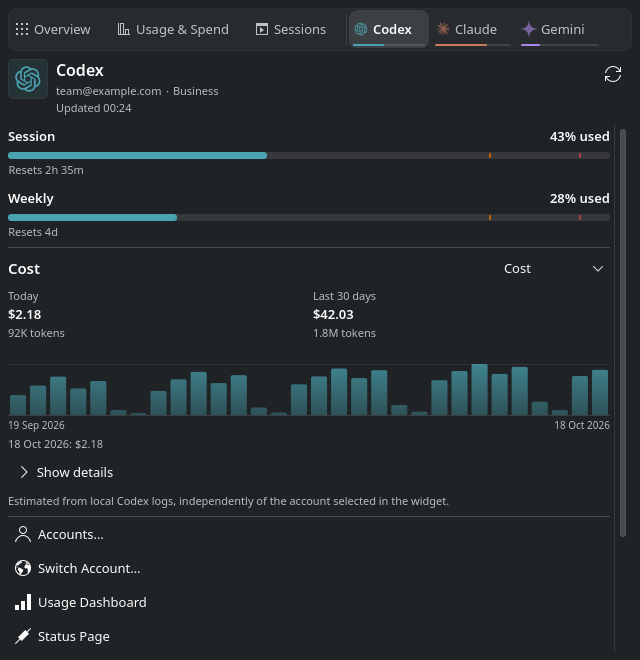
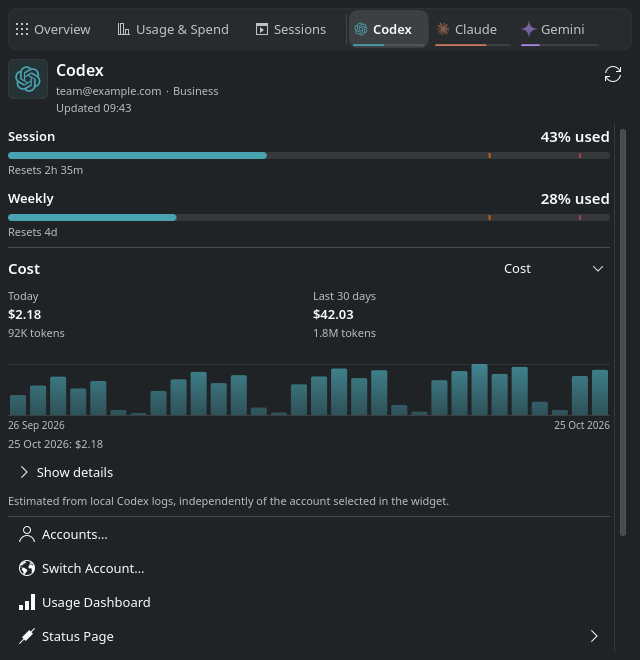
fix(popup): clarify provider quota hierarchy and metadata
Emphasize quota values and move reset metadata below long forecasts when space is limited. Preserve native theme colors, tooltips, row actions, and CLI inputs.

Documentation: update usage and development guides, Unreleased notes, the provider screenshot and the final README tour frame. TODO remains unchanged because this visual refinement does not complete an open parity entry.

diff --git a/tests/tst_visual_layout.qml b/tests/tst_visual_layout.qml
@@ -1939,6 +1939,65 @@ TestCase {
         verify(pace !== null);
     }
 
+    function test_providerUsageMetadataAdaptsToAvailableWidth_data() {
+        return [
+            {tag: "ltr", mirrored: false, fontScale: 1},
+            {tag: "rtl", mirrored: true, fontScale: 1},
+            {tag: "large-text", mirrored: false, fontScale: 2}
+        ];
+    }
+
+    function test_providerUsageMetadataAdaptsToAvailableWidth(data) {
+        failOnWarning(/Qt Quick Layouts: Detected recursive rearrange|Binding loop detected/);
+        var holder = createTemporaryQmlObject(
+            'import QtQuick; Item { LayoutMirroring.childrenInherit: true }', testCase);
+        holder.LayoutMirroring.enabled = data.mirrored;
+        var model = usageRowData();
+        model.pace = "37% in deficit | Expected 43% used | Runs out in 18 hours";
+        var row = createControl("ProviderUsageRow", {
+            applet: applet, providerData: {provider: "codex"}, modelData: model, width: 240
+        }, holder);
+        if (!row)
+            return;
+        var pace = findItem(row, item => item.objectName === "usagePaceLabel");
+        var reset = findItem(row, item => item.text === model.reset);
+        var originalFontSize = pace.font.pointSize;
+        pace.font.pointSize = originalFontSize * data.fontScale;
+        reset.font.pointSize = originalFontSize * data.fontScale;
+        for (var width of [900 * data.fontScale, 540, 240, 900 * data.fontScale]) {
+            row.width = width;
+            verify(waitForPolish(row));
+            if (width === 240 || (width === 540 && data.fontScale === 2)) {
+                verify(reset.mapToItem(row, 0, 0).y >= pace.mapToItem(row, 0, pace.height).y,
+                    "Long forecasts and reset times must use separate rows when space is limited");
+            } else {
+                fuzzyCompare(pace.mapToItem(row, 0, 0).y, reset.mapToItem(row, 0, 0).y, 1);
+            }
+            for (var label of [pace, reset]) {
+                verify(label.width > 0);
+                verify(label.mapToItem(row, 0, 0).x >= -1);
+                verify(label.mapToItem(row, label.width, 0).x <= row.width + 1,
+                    "Quota metadata must stay within the meter width");
+            }
+        }
+        // An unbroken CLI fallback still wraps inside the popup.
+        model.pace = "VeryLongForecast".repeat(12);
+        row.modelData = model;
+        row.width = 240;
+        verify(waitForPolish(row));
+        compare(pace.text, model.pace);
+        verify(pace.contentWidth <= pace.width + 1);
+        verify(reset.mapToItem(row, 0, 0).y >= pace.mapToItem(row, 0, pace.height).y);
+
+        model.pace = "";
+        model.reset = "Resets after the next billing cycle ".repeat(4);
+        row.modelData = model;
+        verify(waitForPolish(row));
+        compare(pace.visible, false);
+        verify(reset.truncated);
+        verify(reset.width <= row.width);
+    }
+
     // The hide action stays out of sight until the row is hovered or the
     // button takes focus, and asks the applet to hide this provider's row.
     function test_providerUsageRowOffersHideAction() {

diff --git a/contents/ui/components/ProviderUsageRow.qml b/contents/ui/components/ProviderUsageRow.qml
@@ -91,6 +91,7 @@ ColumnLayout {
 
             visible: usageRow.rowData.hasPercent
             text: usageRow.applet.usagePercentText(usageRow.rowData)
+            font.pointSize: Kirigami.Theme.defaultFont.pointSize * 1.15
             font.weight: Font.DemiBold
             horizontalAlignment: Text.AlignRight
             elide: Text.ElideRight
@@ -164,12 +165,29 @@ ColumnLayout {
         }
     }
 
-    RowLayout {
+    TextMetrics {
+        id: usageMetadataMetrics
+
+        font: usagePaceLabel.font
+        text: usagePaceLabel.text + usageResetLabel.text
+    }
+
+    GridLayout {
+        id: usageMetadataLayout
+
+        // Measure the unwrapped text, so changing columns never feeds the
+        // resulting label geometry back into the layout decision.
+        readonly property bool stacked: usagePaceLabel.visible && usageResetLabel.visible
+            && usageMetadataMetrics.advanceWidth + columnSpacing > width
+
         visible: usageRow.summaryText.length > 0
             || (usageRow.showPace && usageRow.rowData.pace.length > 0)
             || usageRow.resetText.length > 0
         Layout.fillWidth: true
-        spacing: Kirigami.Units.smallSpacing
+        Layout.minimumWidth: 0
+        columns: stacked ? 1 : 2
+        columnSpacing: Kirigami.Units.smallSpacing
+        rowSpacing: Kirigami.Units.smallSpacing / 2
 
         PlainPlasmaLabel {
             id: usagePaceLabel
@@ -183,7 +201,8 @@ ColumnLayout {
             opacity: usageRow.applet.secondaryTextOpacity
             Layout.alignment: Qt.AlignBaseline
             Layout.fillWidth: true
-            wrapMode: Text.WordWrap
+            Layout.minimumWidth: 0
+            wrapMode: Text.Wrap
         }
 
         PlainPlasmaLabel {
@@ -193,10 +212,14 @@ ColumnLayout {
             text: usageRow.resetText
             font: Kirigami.Theme.smallFont
             opacity: usageRow.applet.secondaryTextOpacity
-            horizontalAlignment: Text.AlignRight
+            horizontalAlignment: usageMetadataLayout.stacked || !usagePaceLabel.visible
+                ? Text.AlignLeft : Text.AlignRight
             elide: Text.ElideRight
             Layout.alignment: Qt.AlignBaseline
-            Layout.maximumWidth: Kirigami.Units.gridUnit * 14
+            Layout.fillWidth: true
+            Layout.minimumWidth: 0
+            Layout.maximumWidth: usageMetadataLayout.stacked || !usagePaceLabel.visible
+                ? Infinity : implicitWidth
 
             HoverHandler { id: usageResetHover }
 

diff --git a/docs/usage.md b/docs/usage.md
@@ -195,6 +195,11 @@ work and upstream contract requirements.
   Usage-row hide actions appear immediately on hover or keyboard focus.
   Provider action rows keep their full native hover and focus outlines visible
   inside the scrollable popup.
+- Provider quota percentages use a slightly larger type size and align with
+  the end of their meters. Pace forecasts and reset metadata share a line when
+  they fit; longer text or larger fonts put the reset on a separate line below
+  the forecast. Long forecast words wrap inside the popup, and an abbreviated
+  reset still reveals its full text on hover.
 - Overflowing popup tabs have separate scroll buttons and immediate keyboard
   focus reveal, so navigation never covers provider labels. A tab wider than the
   available area stays aligned at its start when focused or selected again.

diff --git a/docs/development.md b/docs/development.md
@@ -1525,6 +1525,9 @@ It also checks the inspection guide through actual canvas pixels for hovered
 and keyboard-selected bar and line points, including signed and all-zero data.
 `tst_visual_layout.qml` verifies full-text readout tooltips with escaped markup,
 immediate keyboard readouts, and tooltip suppression when values fit or disappear.
+It also checks provider quota metadata returning between shared and stacked
+lines on resize, including mirrored layouts, doubled text size, and unbroken
+forecast text that must wrap inside the meter width.
 `make smoke` additionally requires the graphical environment and reports a
 failure rather than silently skipping when that environment is unavailable.
 

diff --git a/CHANGELOG.md b/CHANGELOG.md
@@ -20,6 +20,8 @@ For earlier versions, see [GitHub Releases](https://github.com/Lucenx9/codexbar-
 
 ### Changed
 
+- Emphasize provider quota percentages and stack pace forecasts above reset
+  metadata when the popup width or text size leaves too little room for both.
 - Give session names more space with independent title and metadata rows, align
   provider icons with their titles, and use consistent inset spacing. Keep long
   session states and activity ages inside the card with full-text tooltips.
